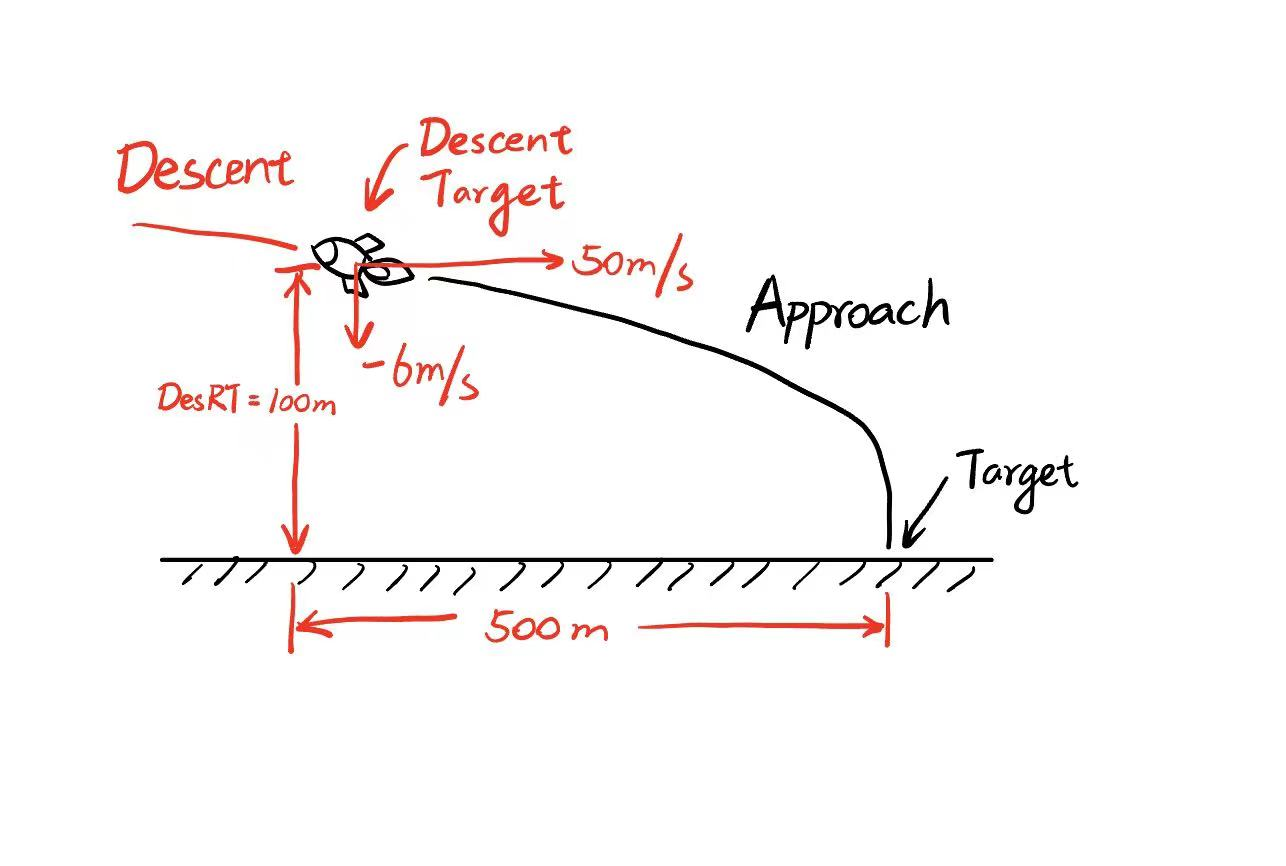
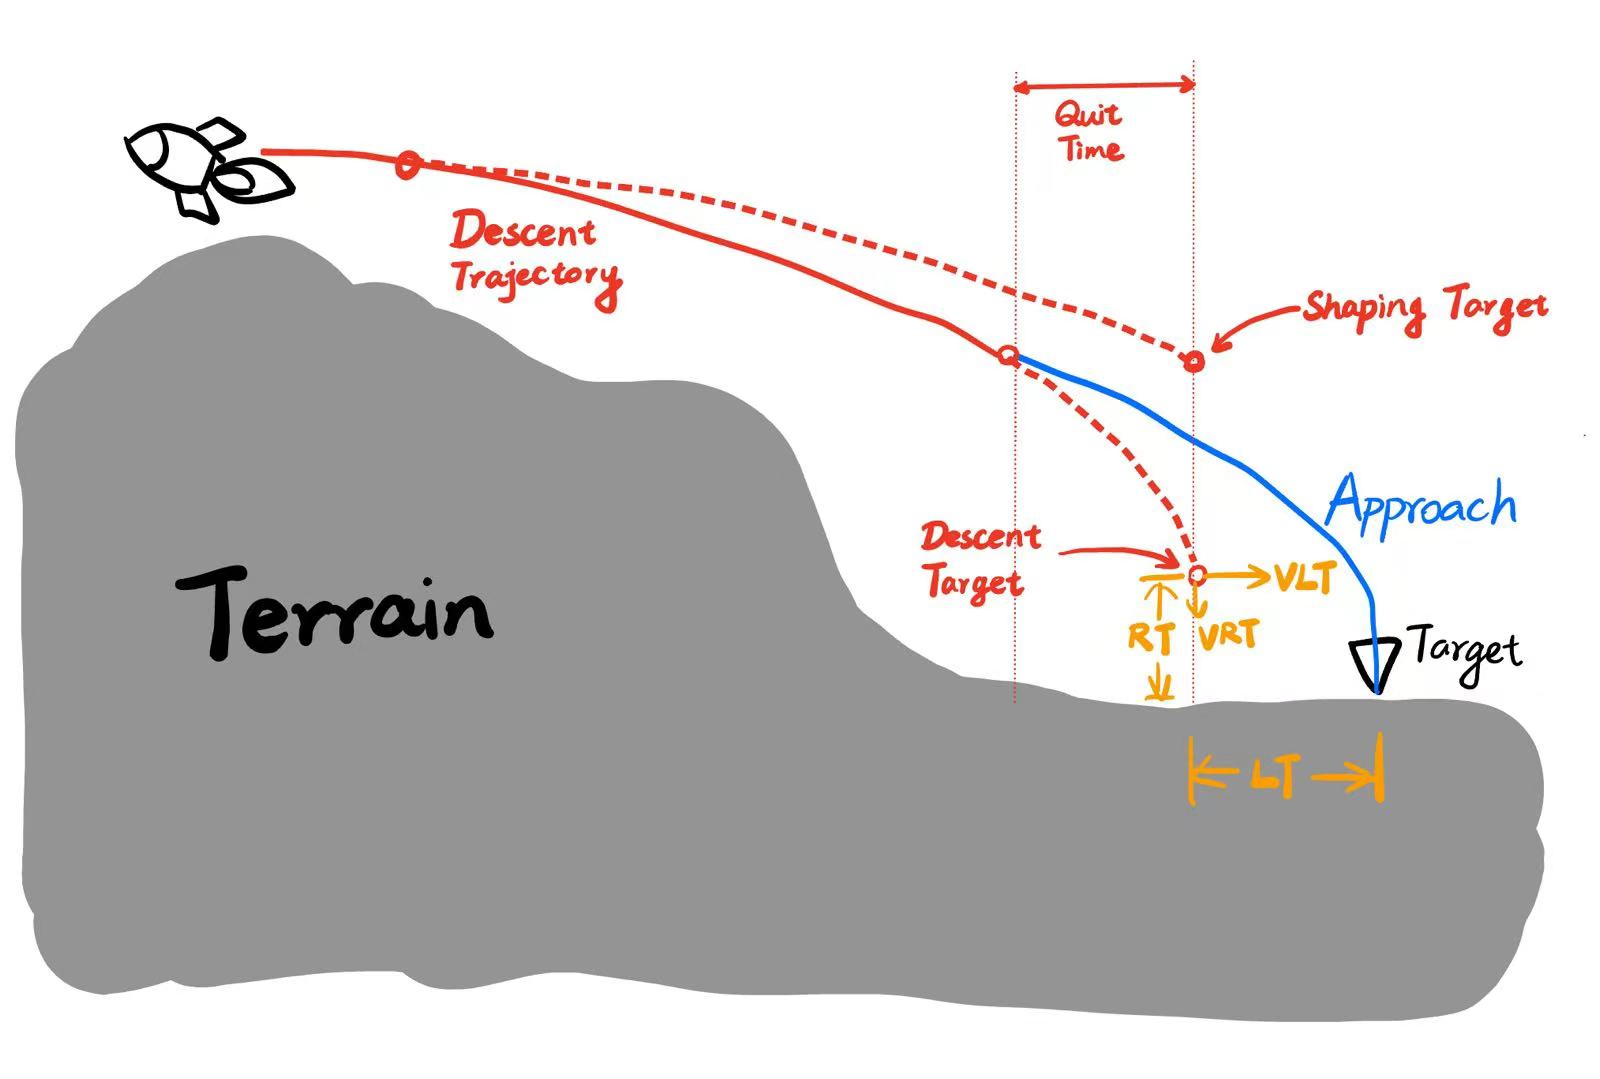
update changelog and tutorial

diff --git a/docs/English/PEGLand.md b/docs/English/PEGLand.md
@@ -77,20 +77,27 @@ The `Find landing site within` button is a more automated method that will rando
 
 ### Adjusting Descent Phase Targets
 
-Descent phase targets need to be set manually, though in most cases the default settings are sufficient. But you may need to adjust these parameters to make approach phase performance more as expected:
+Descent phase targets need to be set manually, though in most cases the default settings are sufficient. But you may need to adjust these parameters to make approach phase performance more as expected. In PEGLand, the transition condition from descent phase to approach phase is kind of complicated. Descent phase doesn't aim at the actual target, instead, it will create a virtual target nearby. You need to assign where and how fast the virtual target is, to ensure approach phase have a good start. Before your vessel reach the virtual target (`Quit Time` ahead of reaching it), the descent phase quit and approach phase (or final phase) take over.
 
 <img src=../pictures/PEGLand/des2app.jpg width=60%>
 
 ![](../pictures/PEGLand/gui_explained_destarget.png)
 
-Main descent phase targets are defined by four parameters:
+Main descent phase targets are defined by five parameters:
 
-- `RT`: Altitude above ground
+- `RT`: Height above target
 - `VRT`: Vertical descent velocity
 - `LT`: Horizontal distance from target
 - `VLT`: Horizontal velocity
+- `Quit Time`: When to finish descent phase
 
-Approach phase duration is approximately $4.5\times LT/VLT$. Longer approach phase duration wastes fuel and throttle may exceed physical limits; shorter duration may result in insufficient landing accuracy.
+Creating a good start state for approach phase can save you fuel and improve landing accuracy. When the approach phase starts, longer distance and slower horizontal speed will make approach phase longer. Longer approach phase duration wastes fuel and throttle may exceed physical limits; shorter duration may result in insufficient landing accuracy.
+
+**Descent Trajectory Shaping**
+
+When you are flying low, there is apparent risk hitting into terrain, as PEG algorithm cannot perceive obstructs along the trajectory. However, PEGLand does provide you tool to shape the trajectory. When you are still far away from the descent target, the shaping tool create a shaping target above the descent target, thus raise your trajectory. Once you've passed distance threshold, the guidance switches to descent target immediately.
+
+For example, if there is a mountain with altitude of 1.5 km in the course, 5km from the landing target, and you are sure to collide into it if you do nothing special. You can aim at several hundreds meters above the target when you are 5 km away.
 
 ## Tips
 

diff --git a/Changelog.md b/Changelog.md
@@ -92,4 +92,11 @@ Major version update
 
 ## 2026/04/06 v0.9.3
 
-- Solved BUG: Removed Burst Compiler code in `kOS-AFS`, to avoid FARc causing Unity Burst failure. [issue](https://github.com/KSPModdingLibs/KSPBurst/issues/14)
+- Fixed Bug: Removed Burst Compiler code in `kOS-AFS`, to avoid FARc causing Unity Burst failure. [issue](https://github.com/KSPModdingLibs/KSPBurst/issues/14)
+
+## 2026/04/18 v0.9.4
+
+- Added trajectory shaping function in PEGLand
+- Improved descent phase target settings, added `Quit Time` parameter
+- Fixed Bug: When press the emergency suppress button in UEntry, the flight control cannot be suppressed.
+- Fixed Bug: Minor error in reference frame transformation in PEGLand

diff --git a/更新日志.md b/更新日志.md
@@ -91,3 +91,10 @@
 ## 2026/04/06 v0.9.3
 
 - 紧急修复问题：移除Burst Compiler支持，避免FARc造成Burst编译失败。[issue](https://github.com/KSPModdingLibs/KSPBurst/issues/14)
+
+## 2026/04/18 v0.9.4
+
+- PEGLand增加轨迹塑形功能
+- PEGLand更改下降段目标设置逻辑，增加预退出时间参数
+- 修复问题：按下按钮后UEntry中飞控无法紧急中止
+- 修复问题：PEGLand中轻微的坐标系转换误差